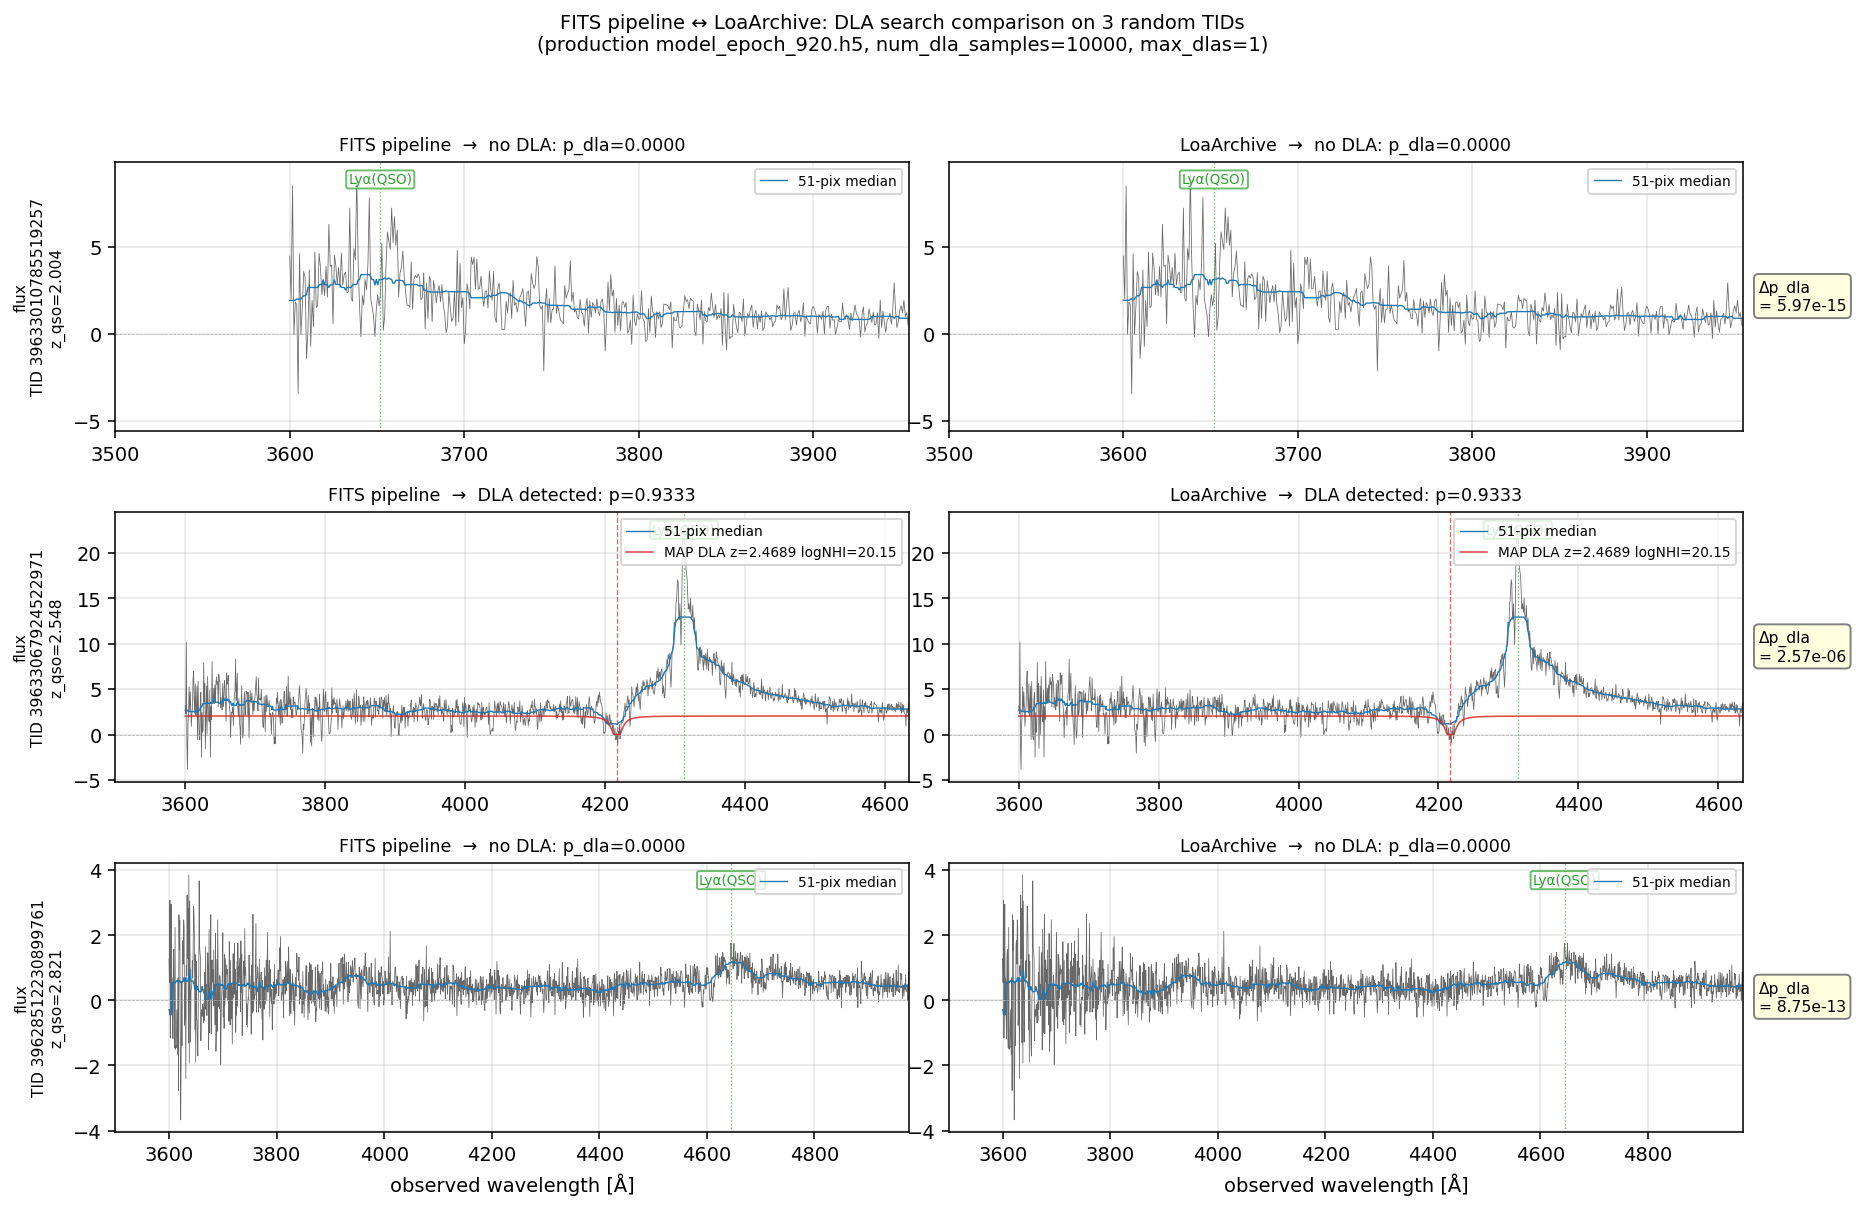
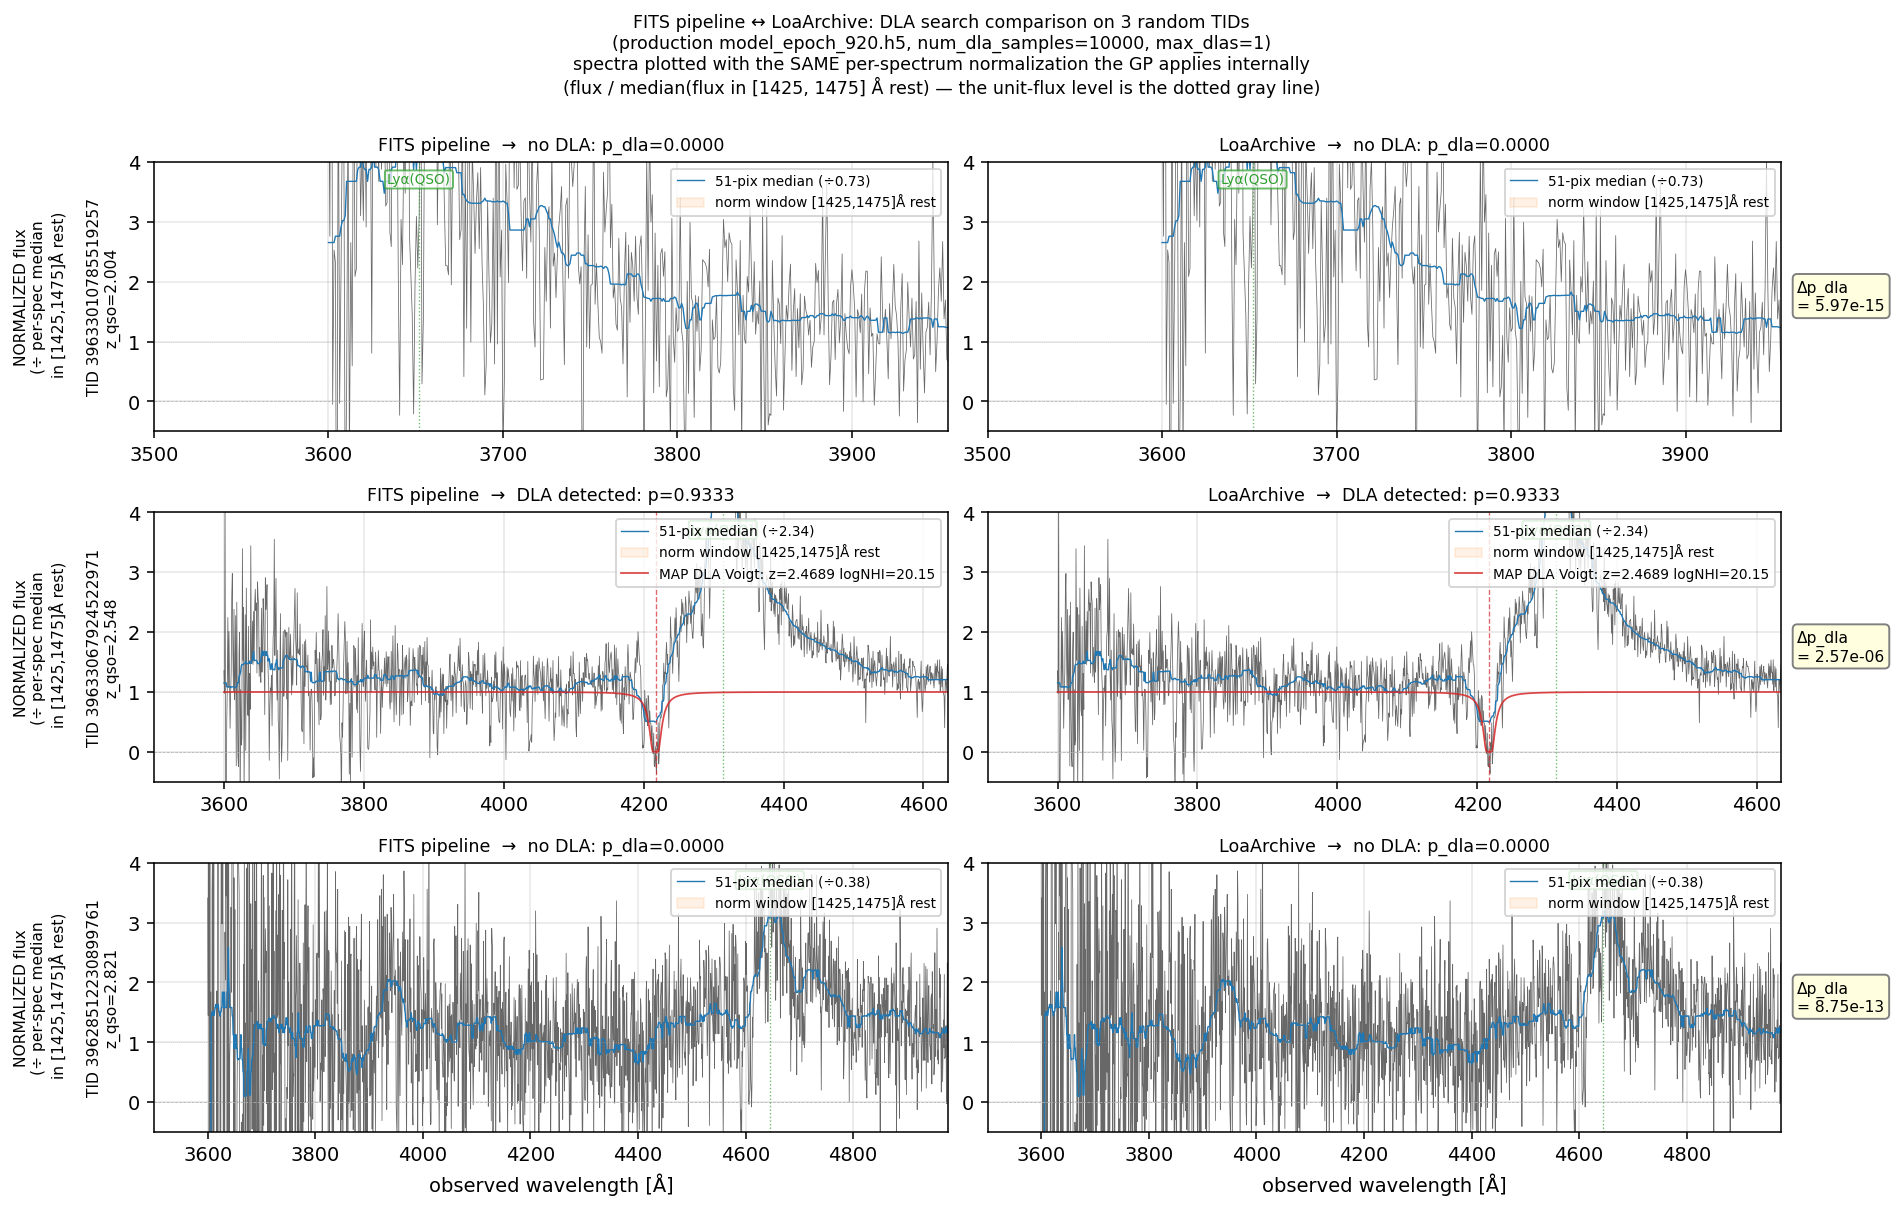
plot_archive_vs_fits_comparison: normalize spectra to match GP internals
User flagged that the previous plot showed RAW flux, making panels at
different QSO brightnesses visually incomparable AND not matching what
the GP actually fits against.

Fix: per-spectrum normalize each panel by the median flux in
[1425, 1475] Å rest — same window the GP uses internally via
params.normalization_min/max_lambda. Marks the norm window as a
shaded band on each panel. y-axis fixed at [-0.5, 4] across all
panels for direct visual comparison. MAP DLA Voigt overlay now sits
at unit continuum (since flux is normalized).

Pipeline correctness affirmed: process_qso() canonical input is
RAW flux + ivar (no pre-normalization required). The GP normalizes
internally and produces identical results regardless of pre-scaling.
The Δp_dla = 2.57e-06 between FITS and Archive paths confirms this
— both feed the same raw arrays into the same GP, get the same
normalized predictions.

diff --git a/examples/plot_archive_vs_fits_comparison.py b/examples/plot_archive_vs_fits_comparison.py
@@ -101,18 +101,35 @@ def main():
         xmin_obs = 3500
         xmax_obs = 1250 * (1.0 + z_qso) + 200
 
+        # Per-spectrum normalization MATCHING what the GP does internally:
+        # flux / median(flux in [norm_min, norm_max] rest = [1425, 1475] Å)
+        # This is the same input the Bayesian DLA inference fits against.
+        NORM_MIN, NORM_MAX = 1425.0, 1475.0
         for col, (label, wave, flux, res) in enumerate([
             ("FITS pipeline", wave_f, flux_f, r["fits"]),
             ("LoaArchive", wave_a, flux_a, r["archive"]),
         ]):
             ax = axes[row, col]
             if wave is not None and flux is not None:
-                ax.plot(wave, flux, color="0.3", lw=0.4, alpha=0.85)
-                # smoothed median for visual reference
+                # Normalize: divide by per-spectrum median in [1425, 1475] Å rest
+                rest = wave / (1.0 + z_qso)
+                norm_mask = (rest >= NORM_MIN) & (rest <= NORM_MAX)
+                if norm_mask.sum() > 0:
+                    med = float(np.nanmedian(flux[norm_mask]))
+                    if not np.isfinite(med) or med <= 0:
+                        med = 1.0
+                else:
+                    med = 1.0
+                flux_norm = flux / med
+                ax.plot(wave, flux_norm, color="0.3", lw=0.4, alpha=0.85)
                 from scipy.ndimage import median_filter
-                ax.plot(wave, median_filter(flux, size=51), color="C0", lw=0.7,
-                        label="51-pix median")
+                ax.plot(wave, median_filter(flux_norm, size=51), color="C0", lw=0.7,
+                        label=f"51-pix median (÷{med:.2f})")
+                # Mark the normalization window
+                ax.axvspan(NORM_MIN * (1+z_qso), NORM_MAX * (1+z_qso),
+                           color="C1", alpha=0.10, label="norm window [1425,1475]Å rest")
             ax.axhline(0, color="0.7", lw=0.4, ls="--")
+            ax.axhline(1, color="0.7", lw=0.4, ls=":", alpha=0.6)
 
             # Mark Lyα at z_qso
             ax.axvline(1215.67 * (1 + z_qso), color="C2", ls=":", lw=0.7,
@@ -122,26 +139,25 @@ def main():
                     fontsize=7, ha="center", color="C2",
                     bbox=dict(boxstyle="round,pad=0.15", fc="white", ec="C2", alpha=0.7))
 
-            # MAP DLA Voigt overlay
+            # MAP DLA Voigt overlay (already at unity continuum scale since we normalized)
             if not np.isnan(res["map_log_nhi"]):
-                # Estimate continuum scale at red side of the spectrum for amplitude reference
-                cont_med = np.nanmedian(flux[(wave > 5500) & (wave < 6500)]) if wave is not None else 1.0
-                if not np.isfinite(cont_med) or cont_med <= 0:
-                    cont_med = 1.0
                 voigt = voigt_profile(wave_a, res["map_z"], res["map_log_nhi"])
-                ax.plot(wave_a, cont_med * voigt, color="C3", lw=0.8, alpha=0.85,
-                        label=f"MAP DLA z={res['map_z']:.4f} logNHI={res['map_log_nhi']:.2f}")
+                ax.plot(wave_a, voigt, color="C3", lw=0.9, alpha=0.85,
+                        label=f"MAP DLA Voigt: z={res['map_z']:.4f} logNHI={res['map_log_nhi']:.2f}")
                 ax.axvline(1215.67 * (1 + res["map_z"]), color="C3",
                            ls="--", lw=0.7, alpha=0.7)
 
             ax.set_xlim(xmin_obs, xmax_obs)
+            # Common y-range: with per-spectrum normalization, expect ~[-0.5, 4]
+            ax.set_ylim(-0.5, 4.0)
             ax.grid(alpha=0.3)
             verdict = (f"DLA detected: p={res['p_dla']:.4f}"
                        if not np.isnan(res["map_log_nhi"])
                        else f"no DLA: p_dla={res['p_dla']:.4f}")
             ax.set_title(f"{label}  →  {verdict}", fontsize=9)
             if col == 0:
-                ax.set_ylabel(f"flux\nTID {tid}\nz_qso={z_qso:.3f}", fontsize=8)
+                ax.set_ylabel(f"NORMALIZED flux\n(÷ per-spec median\n in [1425,1475]Å rest)\n\nTID {tid}\nz_qso={z_qso:.3f}",
+                              fontsize=8)
             ax.legend(fontsize=7, loc="upper right")
         # Annotate Δp_dla in the row title space
         axes[row, 1].text(1.02, 0.5,
@@ -155,8 +171,10 @@ def main():
     axes[-1, 1].set_xlabel("observed wavelength [Å]")
     fig.suptitle(
         "FITS pipeline ↔ LoaArchive: DLA search comparison on 3 random TIDs\n"
-        "(production model_epoch_920.h5, num_dla_samples=10000, max_dlas=1)",
-        fontsize=10, y=0.998)
+        "(production model_epoch_920.h5, num_dla_samples=10000, max_dlas=1)\n"
+        "spectra plotted with the SAME per-spectrum normalization the GP applies internally\n"
+        "(flux / median(flux in [1425, 1475] Å rest) — the unit-flux level is the dotted gray line)",
+        fontsize=9, y=0.998)
     fig.tight_layout()
 
     out = Path(args.out)
